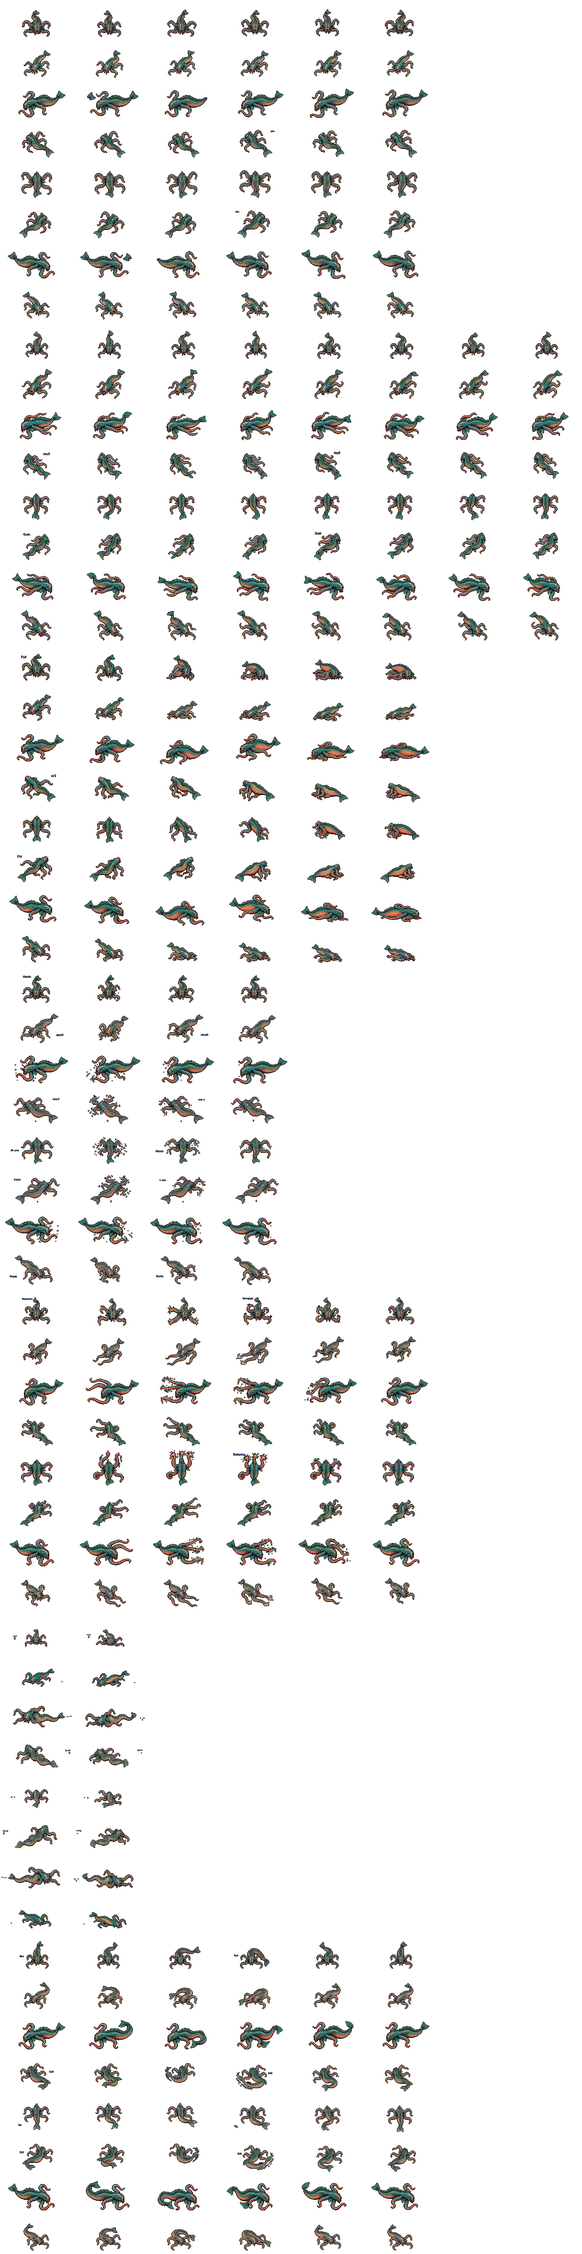
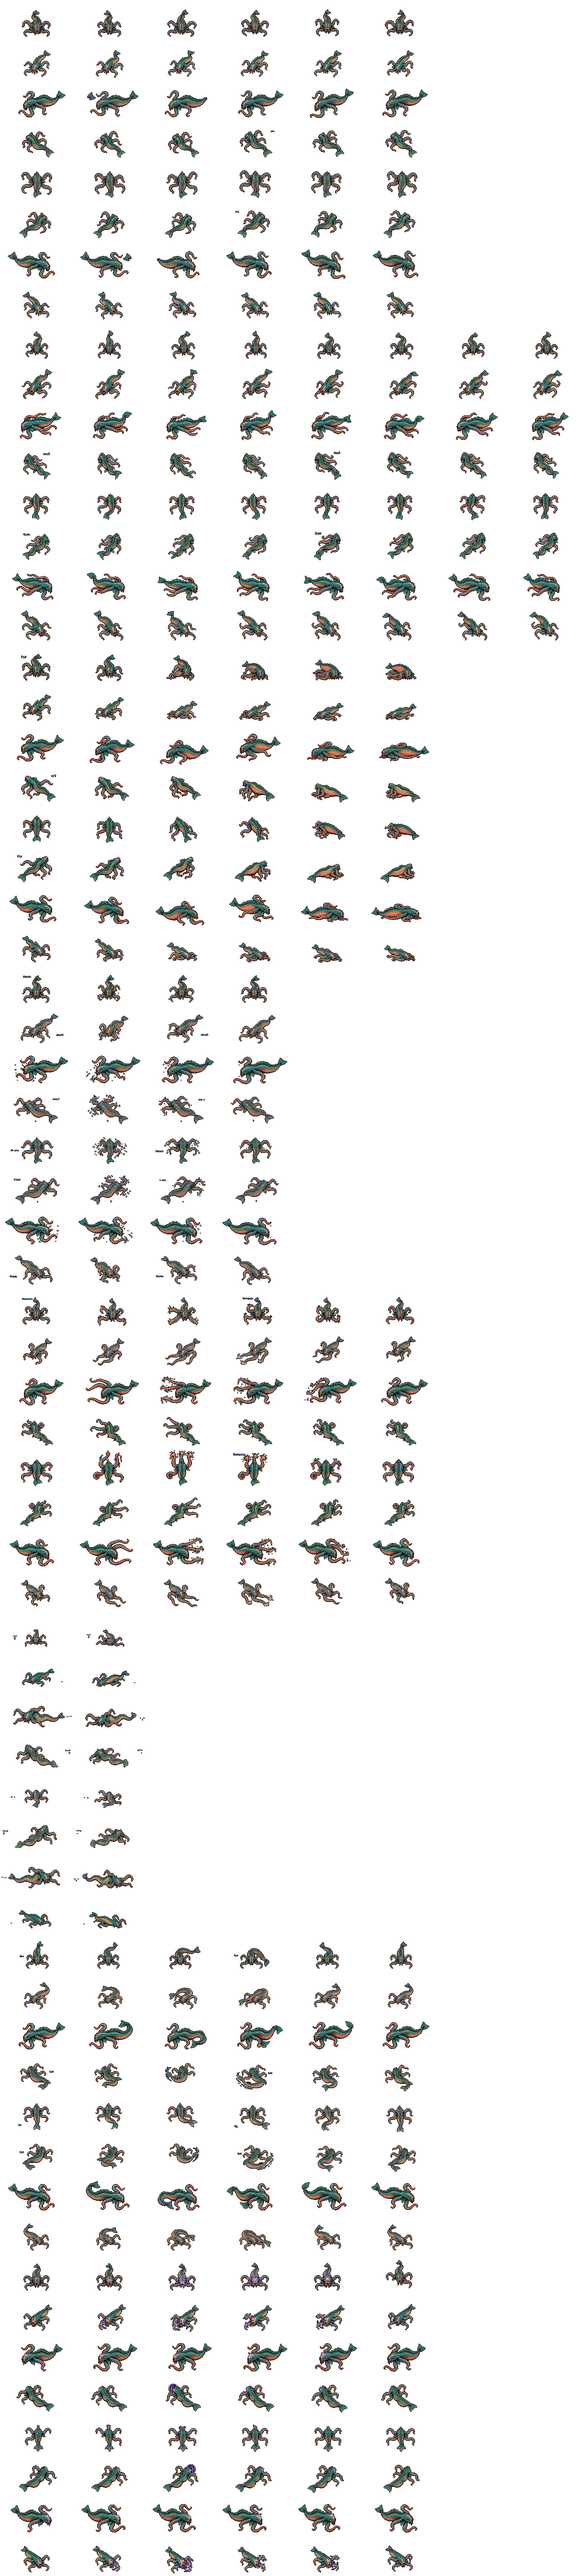
The aboleth's Enslave cut onto its sheet: the body and its lit eyes from ART-19's Enslave pages, the drawn psychic rings left to the engine's own
tools/aboleth-sheet.py: enslave <- Enslave 6 (ART-19 H1 P6, the others' P5; two lines of three, each to its numbers, its labels boxed),
the row js/monsterrules.js plays as it enslaves (rowOr). The drawn rings overlap the next frames and run past the cell: an Enslave frame's
violet and lavender light and the rings' dark edges come out where they lie outside the body's own filled silhouette (across the body they
stay, as glow on it), then the body alone -- its biggest piece and any piece a quarter of it; the engine rings it in violet (FX.ring) as it
casts. aboleth_p1's other rows byte for byte. ?show=aboleth plays every row twice. On Griz's "Yes, cut them" (10-28, to the lanes desk).

diff --git a/deep16/data/sprites.js b/deep16/data/sprites.js
@@ -2,7 +2,7 @@
 'use strict';
 (window.D16 = window.D16 || {}).SHEETS = {
 "aboleth_p1": {
-"image": "art/aboleth_p1.png?v=d7bac4f03f",
+"image": "art/aboleth_p1.png?v=adc978077d",
 "fw": 152,
 "fh": 84,
 "ax": 76,
@@ -71,6 +71,15 @@
 "ay": 76,
 "frames": 6,
 "fps": 10
+},
+"enslave": {
+"y": 4704,
+"fw": 152,
+"fh": 84,
+"ax": 76,
+"ay": 76,
+"frames": 6,
+"fps": 8
 }
 },
 "source": "drawn by the art desk (ART-19, all five views, 10-21), cut by tools/aboleth-sheet.py through tools/artdesk.py (10-22)"

diff --git a/deep16/index.html b/deep16/index.html
@@ -77,7 +77,7 @@
 <script src="js/art.js?v=e1ce4cf012"></script>
 <script src="data/cavern.js?v=647c1a184a"></script>
 <script src="data/maps.js?v=971b4fe9e6"></script>
-<script src="data/sprites.js?v=b922ffcdb8"></script>
+<script src="data/sprites.js?v=245b6a6fa7"></script>
 <script src="js/sprites.js?v=132505c283"></script>
 <script src="js/save.js?v=1191d6f29a"></script>
 <script src="data/spells.js?v=b819b6e987"></script>

diff --git a/tools/aboleth-sheet.py b/tools/aboleth-sheet.py
@@ -9,7 +9,8 @@ page 1 an identity sheet, not cut), HEAD 2 NE, HEAD 3 S, HEAD 4 E, HEAD 5 N; Idl
 Prone 2.
 What each became: idle, walk <- Swim (bound to the water, it moves by swimming), tentacles <- Tentacles (its Multiattack's three; the grick's
 row name, played once), tail <- Tail (its legendary Tail Swipe), flinch, hurt <- Fall (played once), prone <- Prone played backwards.
-Enslave is NOT cut: no charm with commands for a foe yet. Facings: the five views as drawn, SW, W and NW the mirrors of SE, E and NE.
+enslave <- Enslave (10-28, his "Yes, cut them": js/monsterrules.js plays its own enslave row) -- the body and its lit eyes, the drawn
+psychic rings left out (they overlap the next frames and run past the cell; the engine rings it in violet as it enslaves, FX.ring). Facings: the five views as drawn, SW, W and NW the mirrors of SE, E and NE.
 The boxes by the seat's draft (each page's bodies clustered into the manifest's printed bands, each frame's x its body's middle, each strip
 from 30 px over the highest foot), on a mask by channel (CHAN: its dark teal is not grey -- by the grey test its bodies fell to pieces); each band's top-left corner
 (260 px in, down to its highest body) boxed as label -- its grey labels.
@@ -111,20 +112,51 @@ SPEC = {
            R(('prone', (0, 0, 1536, 528), (450, 528), 1, [749]), ('prone_b', (0, 529, 1536, 1021), (963, 1021), 1, [765]))),
 }
 PAGES = {L: dict(p, rows=rows, xs=xs) for L, (p, (rows, xs)) in SPEC.items()}
+# the Enslave pages (10-28): two lines of three, the bands to each line's numbers; each frame's psychic rings out (_ENSLAVE below)
+ENSLAVEP = {'H1P6': ('ART-19_HEAD-1_PAGE-6.png', [(0, 0, 1536, 468), (439, 468), [235, 765, 1293]], [(0, 469, 1536, 971), (930, 971), [258, 770, 1262]], []),
+            'H2P5': ('ART-19_HEAD-2_PAGE-5.png', [(0, 0, 1536, 445), (415, 445), [309, 763, 1276]], [(0, 446, 1536, 957), (925, 957), [338, 804, 1247]], [(15, 170, 165, 205), (15, 645, 165, 682)]),
+            'H3P5': ('ART-19_HEAD-3_PAGE-5.png', [(0, 0, 1536, 464), (433, 464), [341, 784, 1261]], [(0, 465, 1536, 990), (959, 990), [348, 809, 1289]], [(15, 158, 125, 202), (15, 578, 125, 622)]),
+            'H4P5': ('ART-19_HEAD-4_PAGE-5.png', [(0, 0, 1536, 463), (430, 463), [267, 802, 1305]], [(0, 464, 1536, 918), (885, 918), [327, 816, 1275]], [(15, 395, 160, 430), (15, 855, 160, 890)]),
+            'H5P5': ('ART-19_HEAD-5_PAGE-5.png', [(0, 0, 1536, 459), (431, 459), [328, 788, 1226]], [(0, 460, 1536, 962), (933, 962), [341, 772, 1233]], [(35, 45, 180, 80), (35, 510, 180, 548)])}
+for _L, (_f, _a, _b, _t) in ENSLAVEP.items():
+    PAGES[_L] = dict(file=_f, W=1536, text=_t, rows=[('enslave', _a[0], _a[1], 3), ('enslave_b', _b[0], _b[1], 3)], xs={'enslave': _a[2], 'enslave_b': _b[2]})
 # three labels the corner boxes miss (NE Idle's beside its first body's raised tip, S Fall's second line low in the first's strip, N Tentacles'
 # band set high by a raised tentacle): boxed by hand
 for _L, _b in {'H2P1': (40, 50, 112, 82), 'H3P7': (25, 520, 112, 578), 'H5P3': (30, 36, 194, 70)}.items():
     PAGES[_L]['text'] = PAGES[_L]['text'] + [_b]
 FIX, CUTS = {}, {}
+# an Enslave frame's psychic rings out: violet and lavender light (blue over green, red over green) and the rings' dark edges, outside the
+# body's own filled silhouette (across it they stay, glow on it); then the body alone -- its biggest piece and any piece a quarter of it
+from scipy import ndimage as _nd
+def _no_rings(im):
+    a = np.asarray(im).astype(np.int32).copy()
+    al = a[..., 3] > 0
+    ring = (((a[..., 2] - a[..., 1]) > 45) & ((a[..., 0] - a[..., 1]) > 5)) | (((a[..., 2] - a[..., 1]) > 20) & ((a[..., 0] - a[..., 1]) > -5) & (a[..., :3].mean(-1) < 110))
+    body = _nd.binary_fill_holes(_nd.binary_closing(al & ~ring, structure=np.ones((3, 3)), iterations=6))   # (the body's own silhouette: ring light across it stays, as glow on it)
+    a[al & ring & ~body, 3] = 0
+    lab, n = _nd.label(a[..., 3] > 0, structure=np.ones((3, 3)))
+    if n > 1:
+        sz = _nd.sum(a[..., 3] > 0, lab, range(1, n + 1))
+        a[~np.isin(lab, 1 + np.where(sz >= 0.25 * sz.max())[0]), 3] = 0
+    return Image.fromarray(a.astype(np.uint8), 'RGBA')
+_cut0 = AD.cut
+def _cut(*a, **k):
+    out = _cut0(*a, **k)
+    for L, rows in out.items():
+        for r in rows:
+            if r.startswith('enslave'):
+                rows[r] = [(None if im is None else _no_rings(im), box, x) for im, box, x in rows[r]]
+    return out
+AD.cut = _cut
 CHAN = 28                                      # (its dark teal falls out of the grey test: each channel against the navy, the ettercap's way)
-# each view's pages, its Idle's first; Enslave's left out (H1 P6, the others' P5)
-VIEWS = {'SE': ('H1P2', 'H1P3', 'H1P4', 'H1P5', 'H1P7', 'H1P8', 'H1P9')}
-VIEWS.update({v: tuple('H%dP%d' % (h, p) for p in (1, 2, 3, 4, 6, 7, 8)) for v, h in (('NE', 2), ('S', 3), ('E', 4), ('N', 5))})
+# each view's pages, its Idle's first; Enslave last (H1 P6, the others' P5: cut since 10-28)
+VIEWS = {'SE': ('H1P2', 'H1P3', 'H1P4', 'H1P5', 'H1P7', 'H1P8', 'H1P9', 'H1P6')}
+VIEWS.update({v: tuple('H%dP%d' % (h, p) for p in (1, 2, 3, 4, 6, 7, 8, 5)) for v, h in (('NE', 2), ('S', 3), ('E', 4), ('N', 5))})
 FALL = {'SE': ('H1P8', 'H1P9'), 'NE': ('H2P7', 'H2P8'), 'S': ('H3P7', 'H3P8'), 'E': ('H4P7', 'H4P8'), 'N': ('H5P7', 'H5P8')}   # (Fall page, Prone page)
 STAND_OF = {}
-JOINS = {r + '_b': r for r in ('idle', 'walk', 'tentacles', 'tail', 'flinch', 'hurt', 'prone')}
-ROWS = ['idle', 'walk', 'hurt', 'flinch', 'tentacles', 'prone', 'tail']
-FPS = {'idle': 6, 'walk': 8, 'hurt': 8, 'flinch': 10, 'tentacles': 10, 'prone': 6, 'tail': 10}
+JOINS = {r + '_b': r for r in ('idle', 'walk', 'tentacles', 'tail', 'flinch', 'hurt', 'prone', 'enslave')}
+ROWS = ['idle', 'walk', 'hurt', 'flinch', 'tentacles', 'prone', 'tail', 'enslave']
+FPS = {'idle': 6, 'walk': 8, 'hurt': 8, 'flinch': 10, 'tentacles': 10, 'prone': 6, 'tail': 10, 'enslave': 8}
 
 
 def targets():
